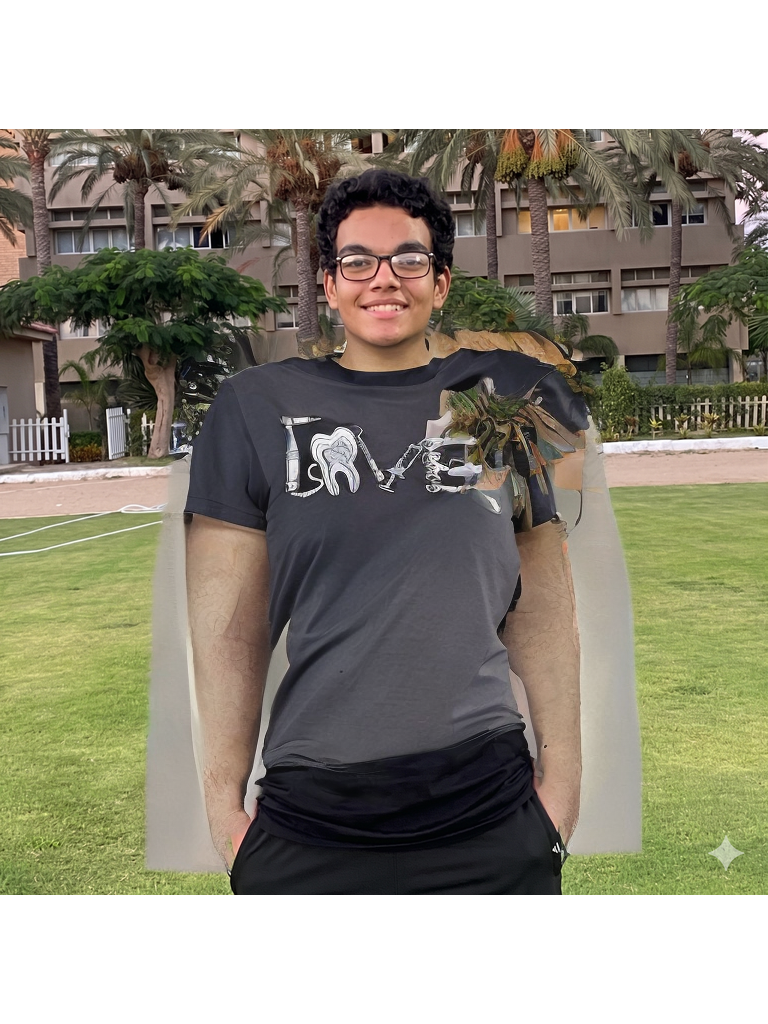
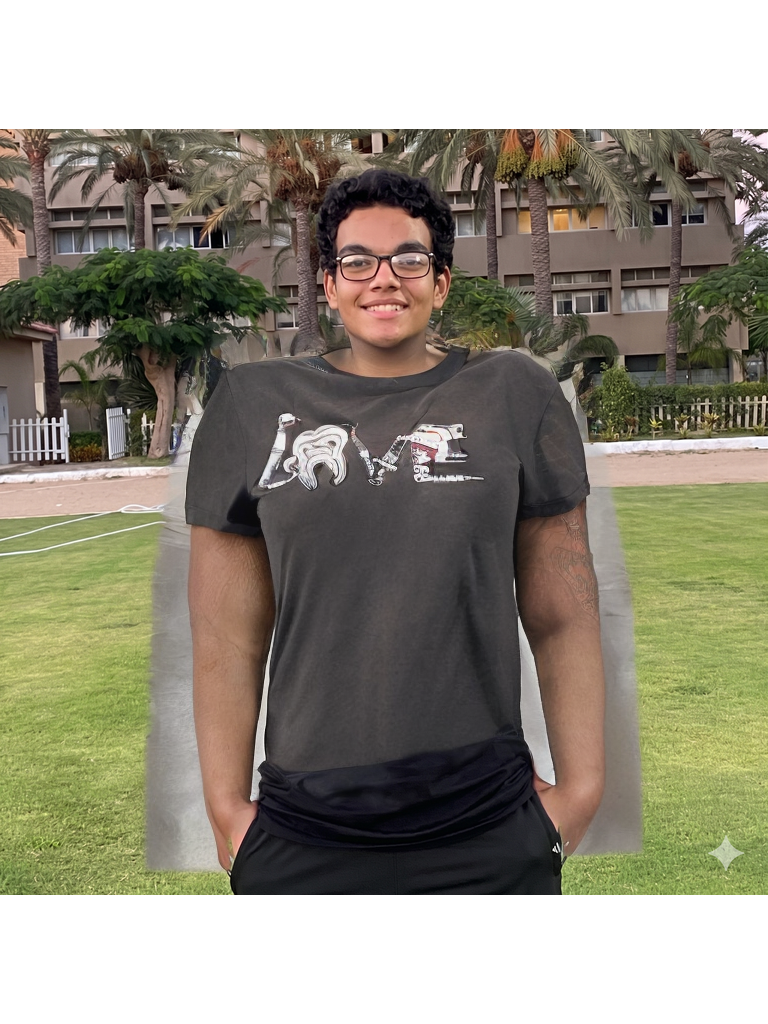
Ultimate Realism: Anatomical Hull + Lighting Match

Changed region(s): [[0.1875, 0.3125, 0.8438, 0.875]]

diff --git a/wearcast/inference_wearcast_hd.py b/wearcast/inference_wearcast_hd.py
@@ -447,10 +447,15 @@ class WearCastHD:
         lum_gap = garm_lum_mean - gen_lum_mean
         print(f"   [DIAG] Raw UNet luminance: {gen_lum_mean:.1f} | Reference: {garm_lum_mean:.1f} | Gap: {lum_gap:.1f}")
 
-        # --- Luminance recovery REMOVED ---
-        # The UNet naturally adapts lighting for on-body realism.
-        # Recovering luminance toward studio lighting created unnatural brightness mismatch.
-        print(f"   [CORR] Luminance recovery: DISABLED (let UNet handle lighting naturally)")
+        # --- NEW: Professional Luminance Match ---
+        # Balances the UNet lighting to match the original garment reference
+        if abs(lum_gap) > 3.0:
+            shift = np.clip(lum_gap * 0.5, -20, 20)
+            gen_arr = np.clip(gen_arr + shift, 0, 255)
+            print(f"   [CORR] Applied professional luminance shift: {shift:+.1f}")
+        else:
+            print(f"   [CORR] Luminance match already within tolerance (gap={lum_gap:.1f})")
+
 
         # --- Final Compositing (The "Cape" Killer) ---
         # We forcefully paste the AI-generated garment onto the ORIGINAL background.
@@ -916,32 +921,41 @@ class WearCastHD:
                 else:
                     spine_proj = np.array([mid_shoulder[0], bottom_y])
 
-                # Draw Spine and Shoulder bones
-                cv2.line(spatial_prior, (int(neck[0]), int(neck[1])), (int(mid_shoulder[0]), int(mid_shoulder[1])), 1, thickness=5)
-                cv2.line(spatial_prior, (int(mid_shoulder[0]), int(mid_shoulder[1])), (int(spine_proj[0]), int(spine_proj[1])), 1, thickness=5)
-                cv2.line(spatial_prior, (int(shoulder_right[0]), int(shoulder_right[1])), (int(shoulder_left[0]), int(shoulder_left[1])), 1, thickness=5)
+                # --- NEW: Anatomical Hull (Torso Polygon) ---
+                # Creates a solid block of "allowed" area between shoulders and hips
+                torso_pts = np.array([
+                    shoulder_right,
+                    shoulder_left,
+                    [shoulder_left[0], model_parse.height],
+                    [shoulder_right[0], model_parse.height]
+                ], dtype=np.int32)
+                cv2.fillPoly(spatial_prior, [torso_pts], 1)
+
+                # Draw neck/spine line for connectivity
+                cv2.line(spatial_prior, (int(neck[0]), int(neck[1])), (int(mid_shoulder[0]), int(mid_shoulder[1])), 1, thickness=10)
                 
-                # Draw arm bones to protect sleeves
-                def draw_bone(p1, p2, thick=5):
+                # Draw arm tubes (Tightened)
+                def draw_arm(p1, p2, thick=15):
                     if p1[0] > 1 and p2[0] > 1:
                         cv2.line(spatial_prior, (int(p1[0]), int(p1[1])), (int(p2[0]), int(p2[1])), 1, thickness=thick)
                 
-                draw_bone(shoulder_right, elbow_right)
-                draw_bone(elbow_right, wrist_right)
-                draw_bone(shoulder_left, elbow_left)
-                draw_bone(elbow_left, wrist_left)
+                draw_arm(shoulder_right, elbow_right)
+                draw_arm(elbow_right, wrist_right)
+                draw_arm(shoulder_left, elbow_left)
+                draw_arm(elbow_left, wrist_left)
                 
-                # Dilate to cover torso. Tightened to 0.40x to strictly exclude background gaps.
-                body_radius = int(max(s_width * 0.40, 25))
-
+                # Dilate slightly to catch fabric drapes
+                body_radius = int(max(s_width * 0.15, 15))
                 spatial_prior = cv2.dilate(spatial_prior, np.ones((body_radius, body_radius), np.uint8), iterations=1)
                 
-                # Spine-centric clipping (Aggressively tightened to 0.65x to KILL THE CAPE)
+                # Strict Horizontal Corridor (The "Cape Killer")
+                # Any pixel outside 0.6x shoulder width is KILLED
                 if s_width > 10:
-                    l_bound = mid_shoulder[0] - s_width * 0.65
-                    r_bound = mid_shoulder[0] + s_width * 0.65
+                    l_bound = mid_shoulder[0] - s_width * 0.60
+                    r_bound = mid_shoulder[0] + s_width * 0.60
                     spatial_prior[:, :max(0, int(l_bound))] = 0
                     spatial_prior[:, min(spatial_prior.shape[1], int(r_bound)):] = 0
+
 
 
 
